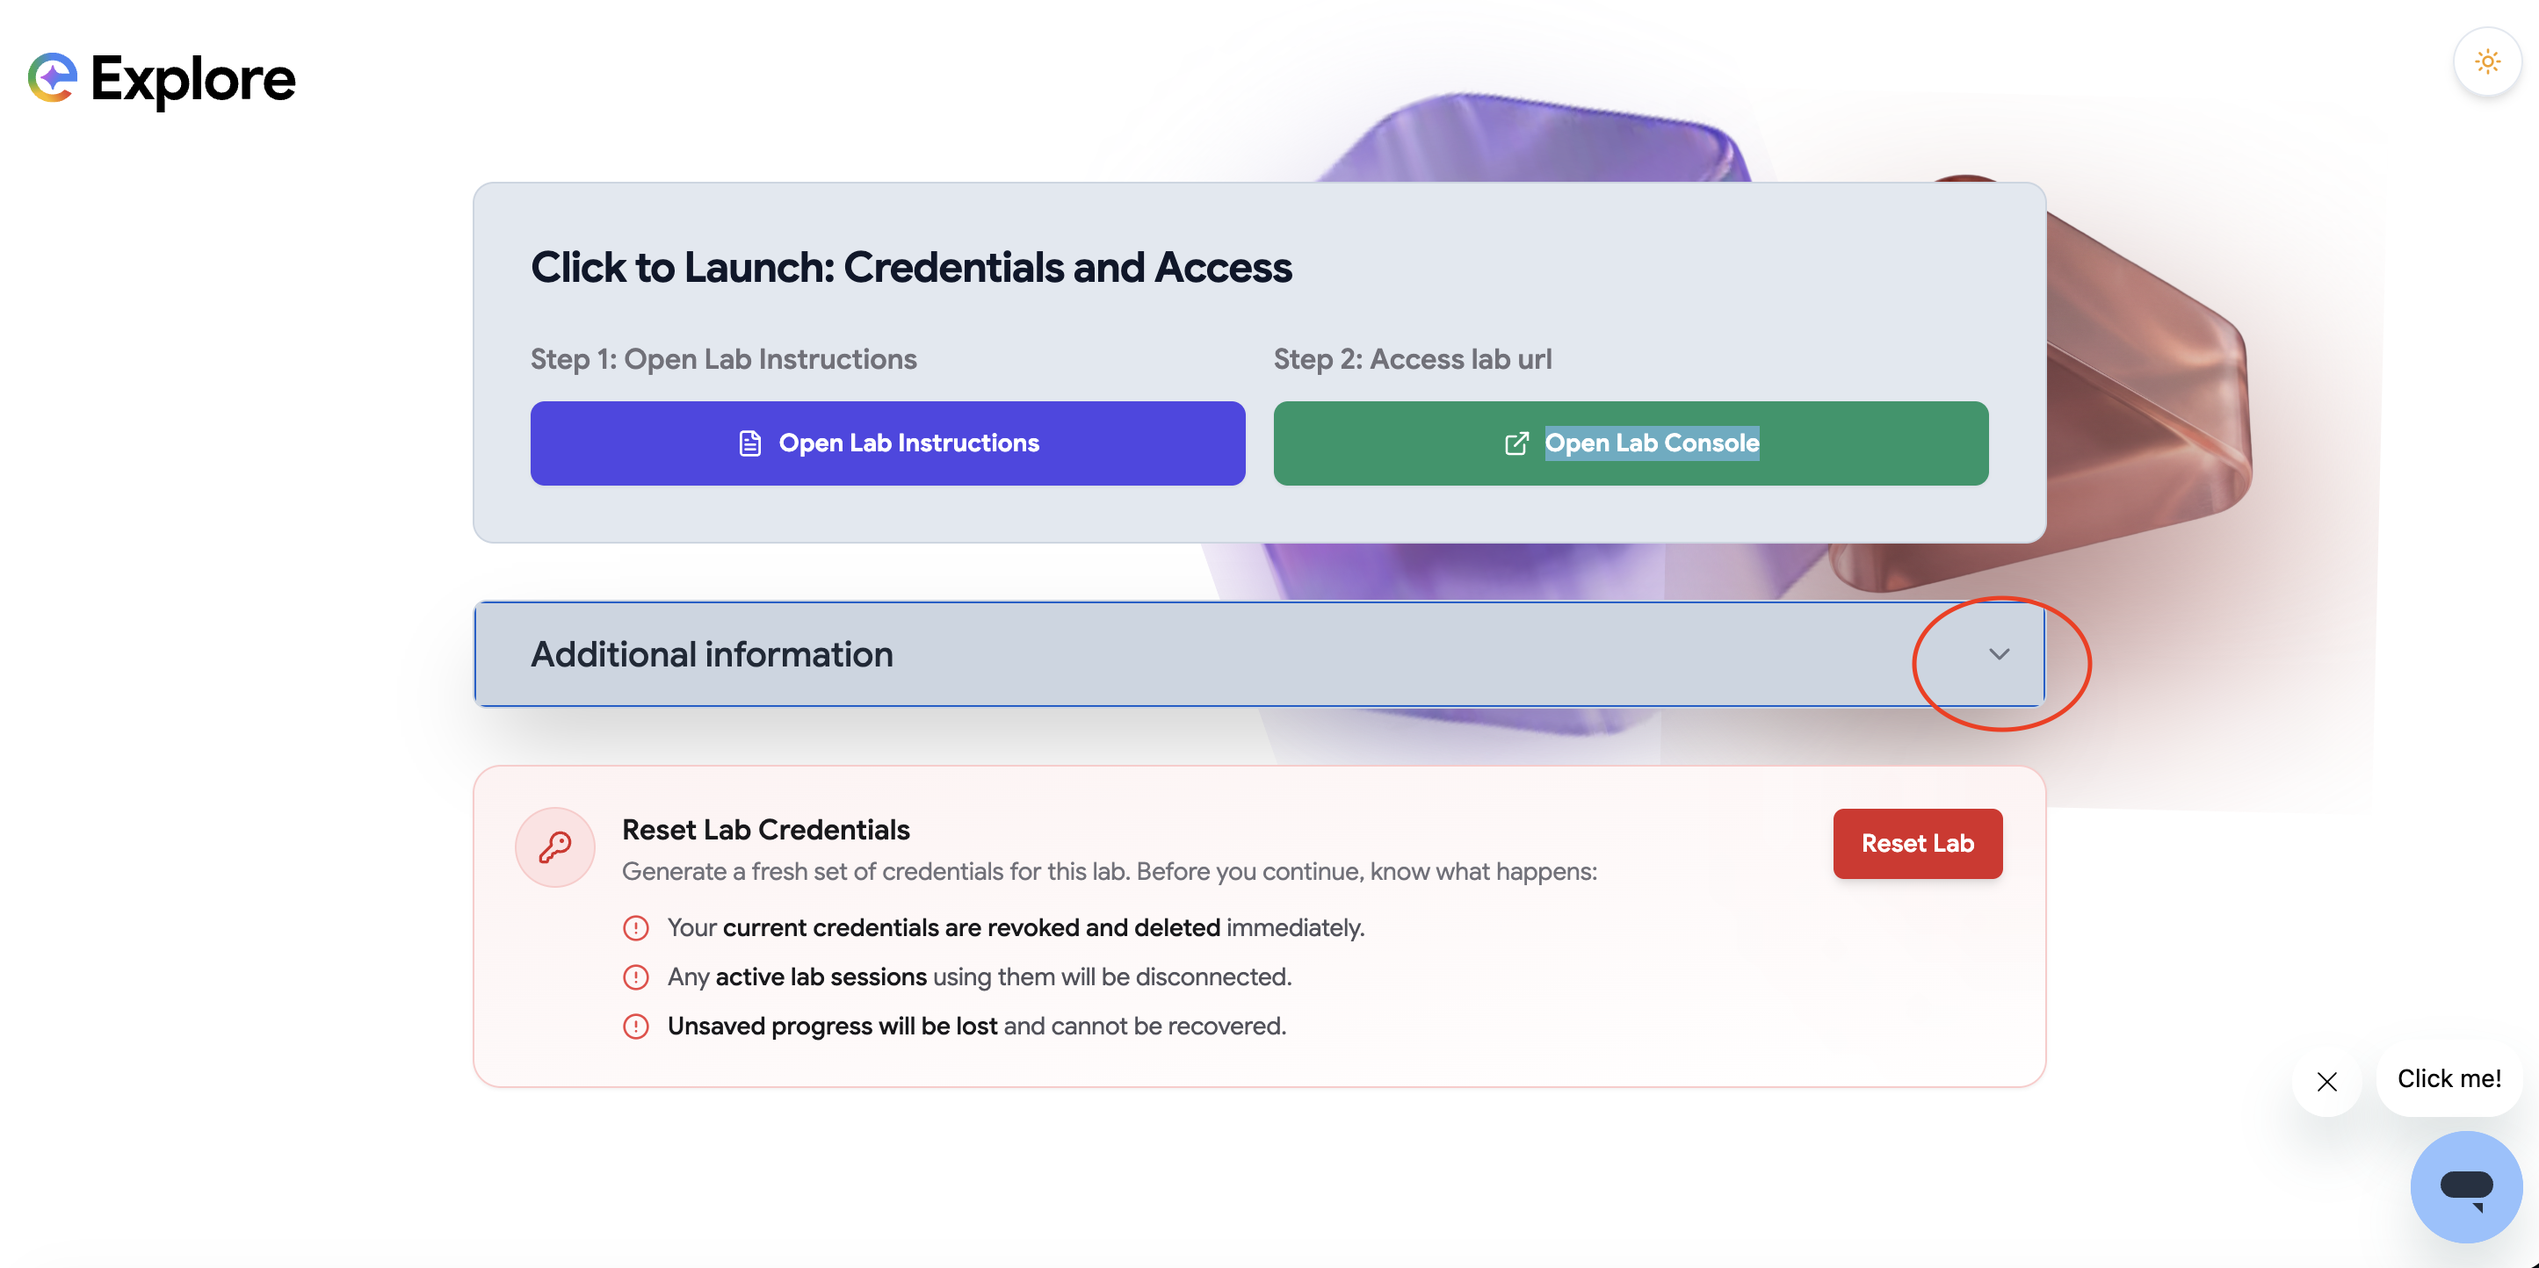
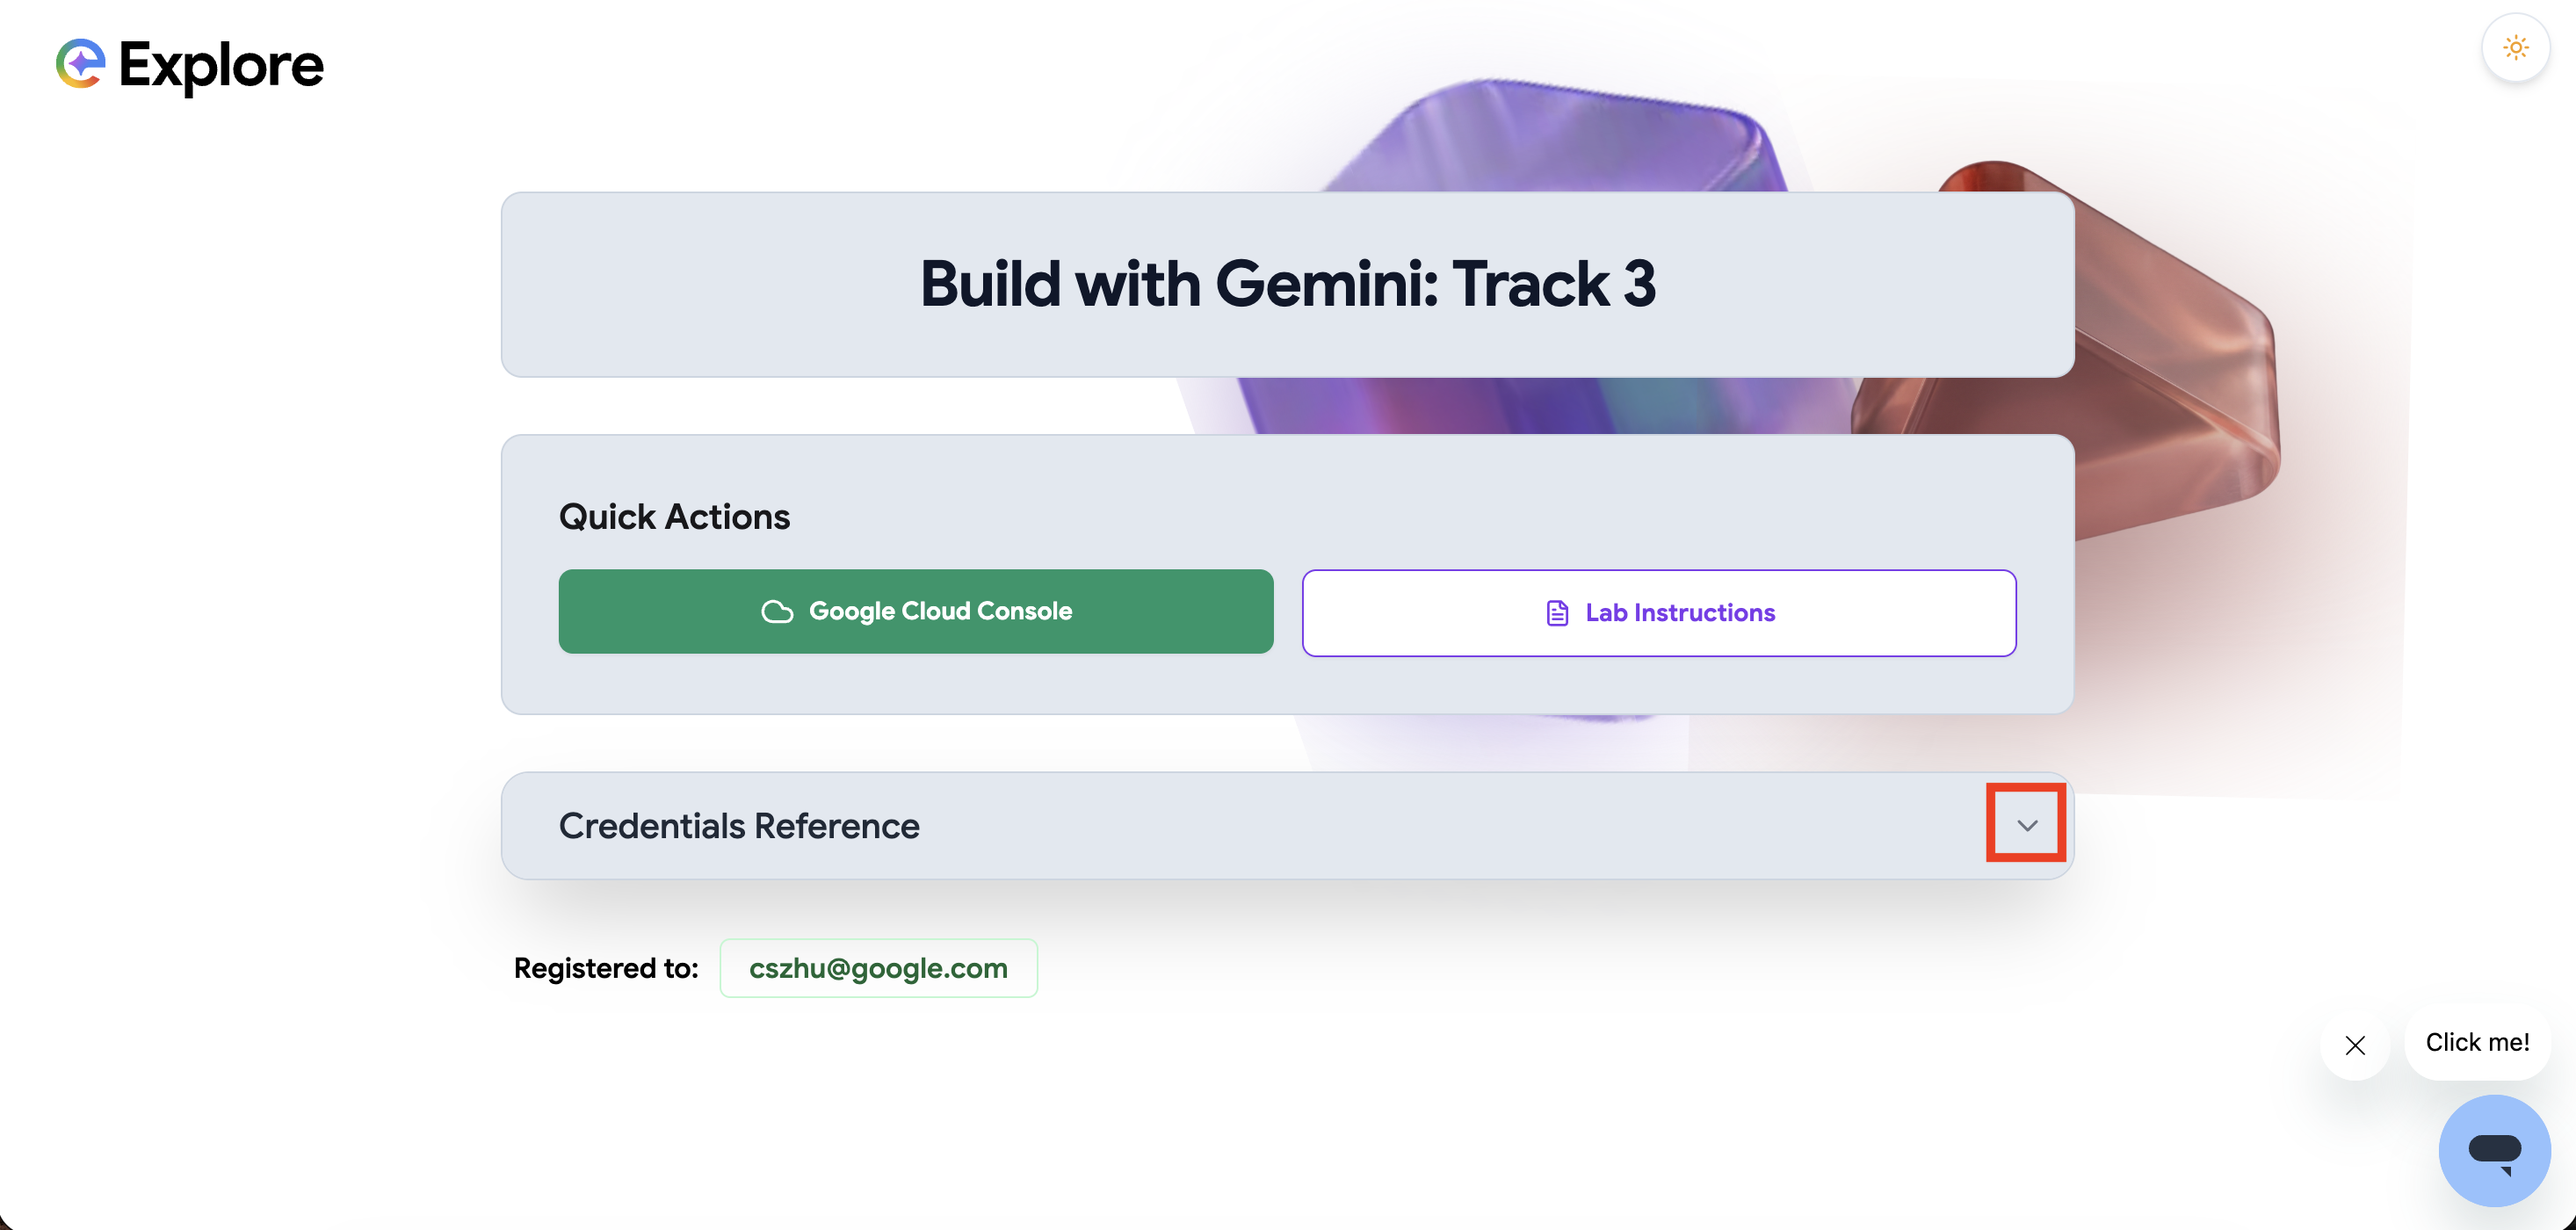
Update setup screenshots for new lab UI, add login screen step

diff --git a/index.html b/index.html
@@ -377,11 +377,15 @@ You will:
 
 # Set Up Your Environment
 
-For this lab, you'll be given access to a temporary GCP environment with ephemeral credentials. You can find your temporary username, password, and project ID here:
+For this lab, you'll be given access to a temporary GCP environment with ephemeral credentials. Start by registering with your email on the Explore page:
+
+![](images/login-screen.png)
+
+Once you're in, expand **Credentials Reference** to find your temporary username, password, and project ID:
 
 ![](images/findcreds.png)
 
-Noting your credentials, right click "Open Lab Console" and select "Open Link in Incognito Window":
+Noting your credentials, right click **Lab Instructions** and select "Open Link in Incognito Window":
 
 ![](images/incognito.png)
 

diff --git a/site/Gemini World 3 QwikLab 2.0.md b/site/Gemini World 3 QwikLab 2.0.md
@@ -13,11 +13,15 @@ You will:
 
 # Set Up Your Environment
 
-For this lab, you'll be given access to a temporary GCP environment with ephemeral credentials. You can find your temporary username, password, and project ID here:
+For this lab, you'll be given access to a temporary GCP environment with ephemeral credentials. Start by registering with your email on the Explore page:
+
+![](images/login-screen.png)
+
+Once you're in, expand **Credentials Reference** to find your temporary username, password, and project ID:
 
 ![](images/findcreds.png)
 
-Noting your credentials, right click "Open Lab Console" and select "Open Link in Incognito Window":
+Noting your credentials, right click **Lab Instructions** and select "Open Link in Incognito Window":
 
 ![](images/incognito.png)
 
